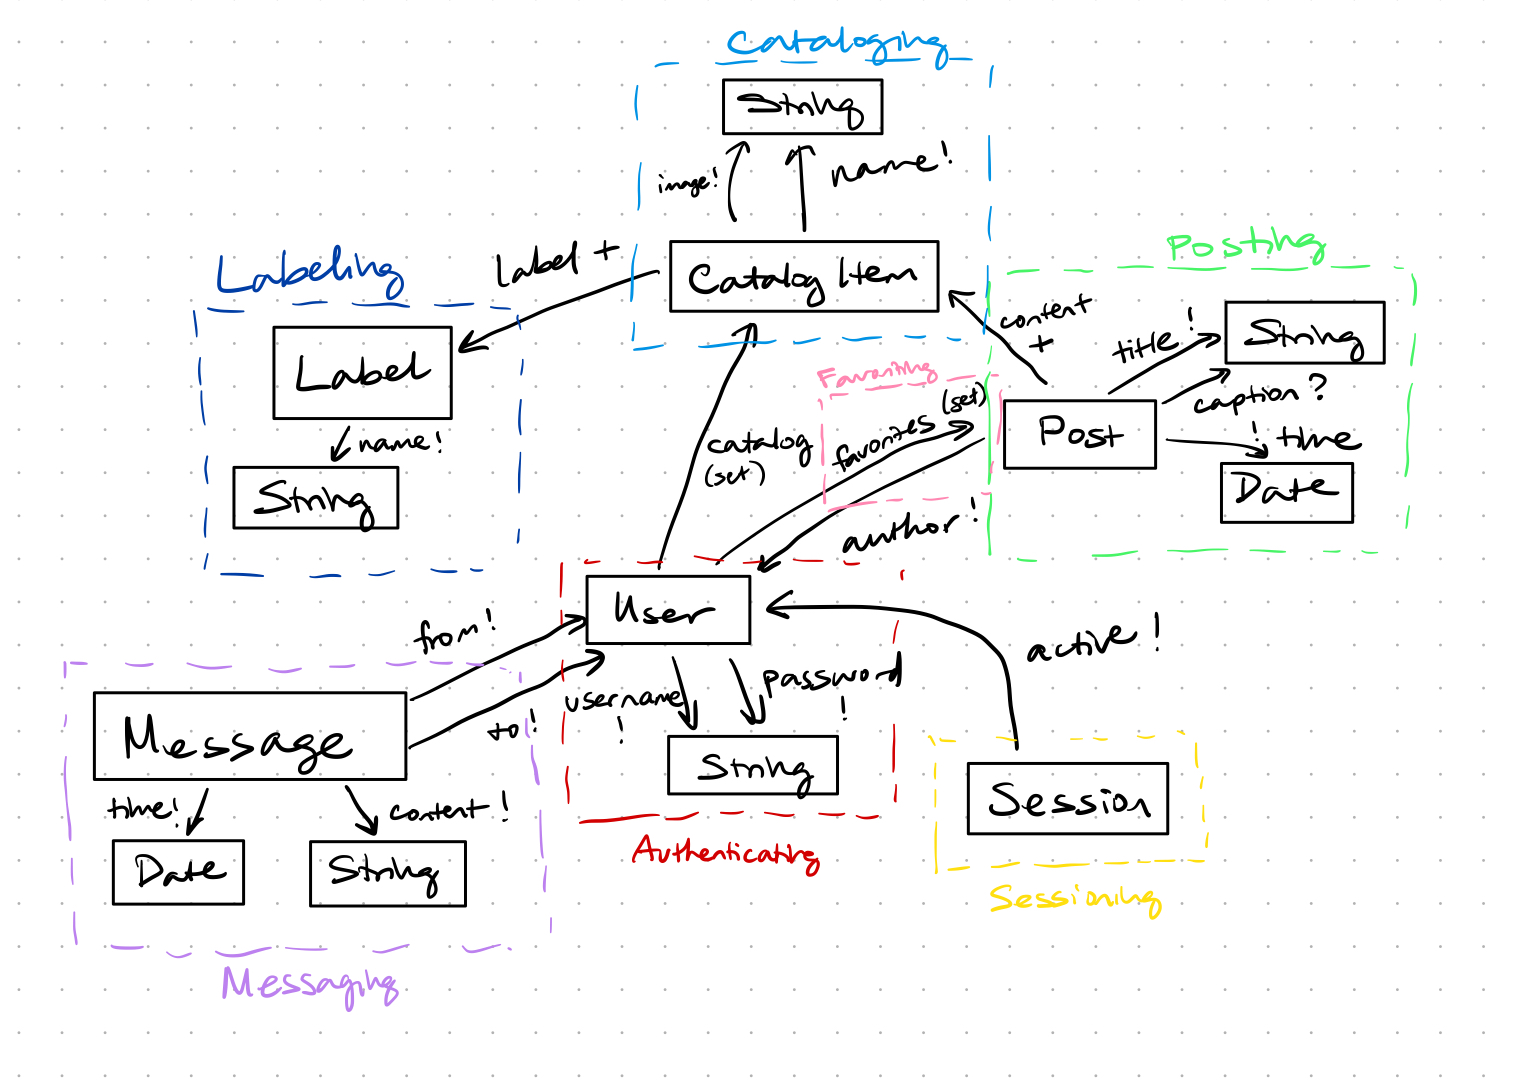
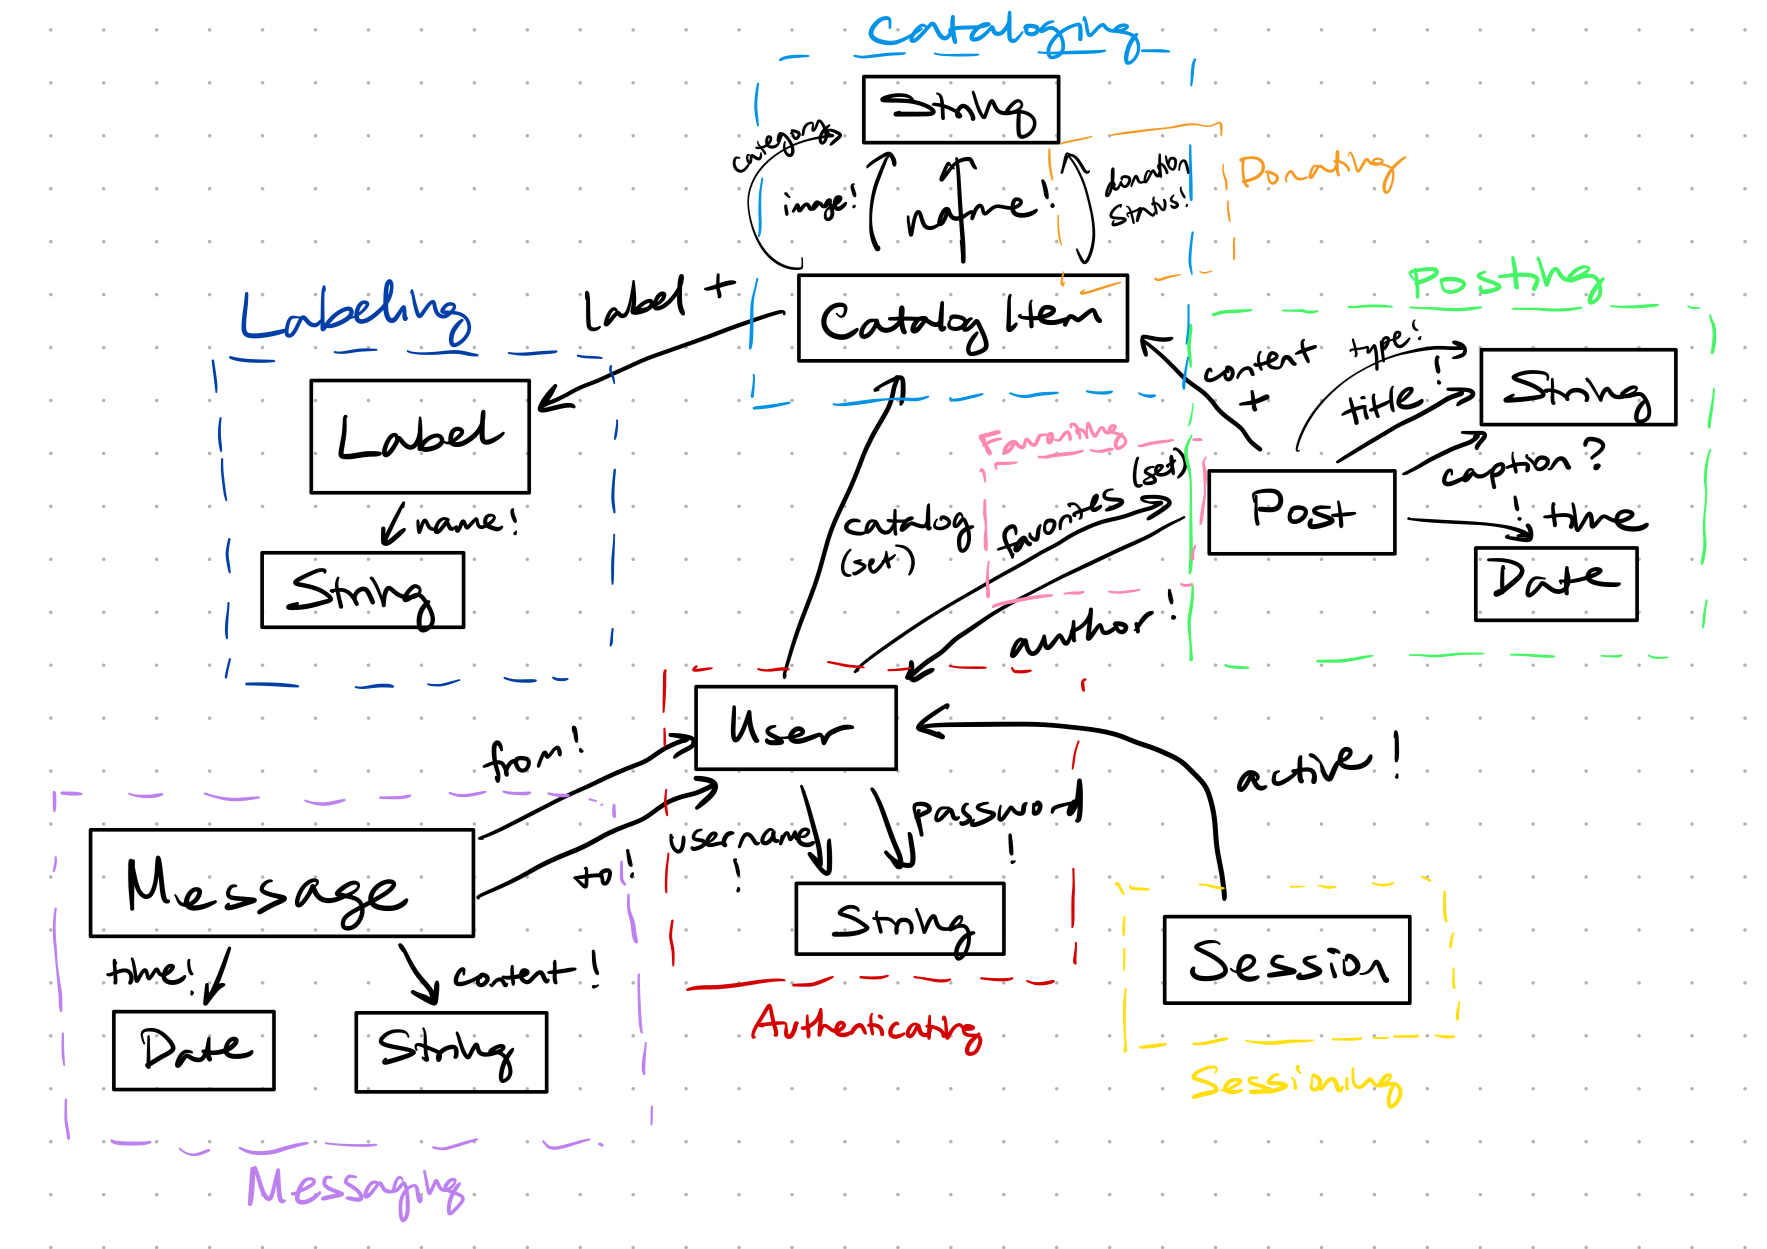
a4

diff --git a/docs/assignments/assignment4.md b/docs/assignments/assignment4.md
@@ -195,12 +195,49 @@ getMessages(u: User):
     return message for message in messages if message[0] == u or message[1] == u
 ```
 
+### 8. `Donating[User, Item]`
+
+Purpose:
+The Donating concept allows users to manage the donation process for items they no longer need. Users can mark items from their catalog as available for donation, unlist them if they change their mind, and mark them as donated once another user has claimed the item.
+
+Operational Principle:
+After a user lists an item for donation, it becomes visible as available to other users for claiming. Once the item is claimed, the user can mark it as donated. This process helps streamline giving away items and ensures the item’s donation status is clear at all times.
+
+#### State:
+
+-   donations: **one** User -> **set** Item
+-   status: Item -> **one** DonationStatus (where DonationStatus is one of NotListed, ListedForDonation, or Donated)
+
+#### Actions:
+
+```
+listForDonation(u: User, item: Item):
+    donations[u] += item
+    status[item] = DonationStatus.ListedForDonation
+
+unlistForDonation(u: User, item: Item):
+    status[item] = DonationStatus.NotListed
+
+markAsDonated(u: User, item: Item):
+    status[item] = DonationStatus.Donated
+
+getListedItems(u: User):
+    return items in donations[u] where status == DonationStatus.ListedForDonation
+
+getDonatedItems(u: User):
+    return items in donations[u] where status == DonationStatus.Donated
+
+getDonationStatus(u: User, item: Item):
+    return status[item]
+```
+
 ## App Definition
 
     concept ReWear
         include Authenticating
         include Sessioning [Authenticating.User]
         include Cataloging [Sessioning.User]
+        include Donating
         include Posting [Sessioning.User, Cataloging.Item]
         include Labeling [Cataloging.Item]
         include Message [Sessioning.User]
@@ -219,3 +256,13 @@ https://github.com/emilymchen/rewear
 ## Routes outline
 
 https://github.com/emilymchen/rewear/blob/main/server/routes.ts
+
+## Design Reflection
+
+During the implementation of the backend service, I realized I never set up a way for users to mark items for donation, so I introduced a new **Donating** concept that allows users to manage the donation state of their item (unlisted, listed for donation, and donated, where listed means it's available for other users to claim, and donated means another user has picked up the item).
+
+I also realized I left categories and labeling ambiguous. I want users to be able to mark their clothing items as being tops, bottoms, shoes, etc., and also to be able to label things like their brand, size, and color. Initially, I thought these could both be handled in the same new concept of Labeling, but I realized that the categories themselves would be better handled as part of the Cataloging concept, since those are not determined by the user, so I added in a new Labeling concept to replace Commenting, since that didn't seem as critical to the function of my program.
+
+I also found an ambiguity where I didn't specify the different types of posts, OOTD or donation item.
+
+sorry this assignment is kinda bad i am having a rough week :,)
